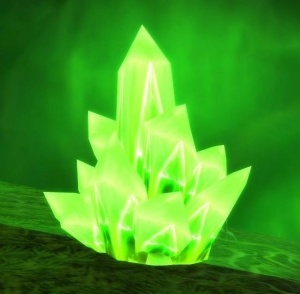
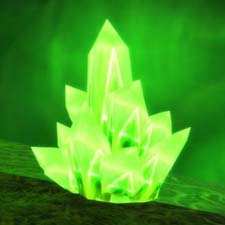
css, html: small changes

diff --git a/index.html b/index.html
@@ -11,11 +11,17 @@
   <title>Crystal Game</title>
 </head>
 <body>
-<h1><strong>Crystal Game</strong></h1>
-<div class="container">
+  <div class="container">
+    <div class="row">
+      <div class="col-md-12">
+        <h1><strong>Crystal Game</strong></h1>
+      </div>
+    </div>
+  </div>
+  <div class="container">
   <div class="row">
     <div class="col-md-12">
-      <h2><strong>Instructions here...</strong></h2>
+      <h2><strong>Instructions</strong> ...</h2>
       <!-- show randomized 19-125 target number -->
       <p>target score:</p>
       <div id ="crystalTotal">

diff --git a/assets/css/style.css b/assets/css/style.css
@@ -1,5 +1,5 @@
 img.crystal {
-  height:16rem;
+  width: 15rem;
   margin: 0 1rem;
   cursor: pointer;
 }
@@ -8,3 +8,16 @@ img.crystal {
 h1 {
   text-align: center;
 }
+
+
+.container {
+  max-width: 960px;
+}
+
+div#crystalsContainer {
+   padding: 1em 2em;
+}
+
+/*
+TODO: center crystals inside container, make responsive. in HTML add col-sm-6 or equiv for 2 crystals per line on smaller devices
+ */
